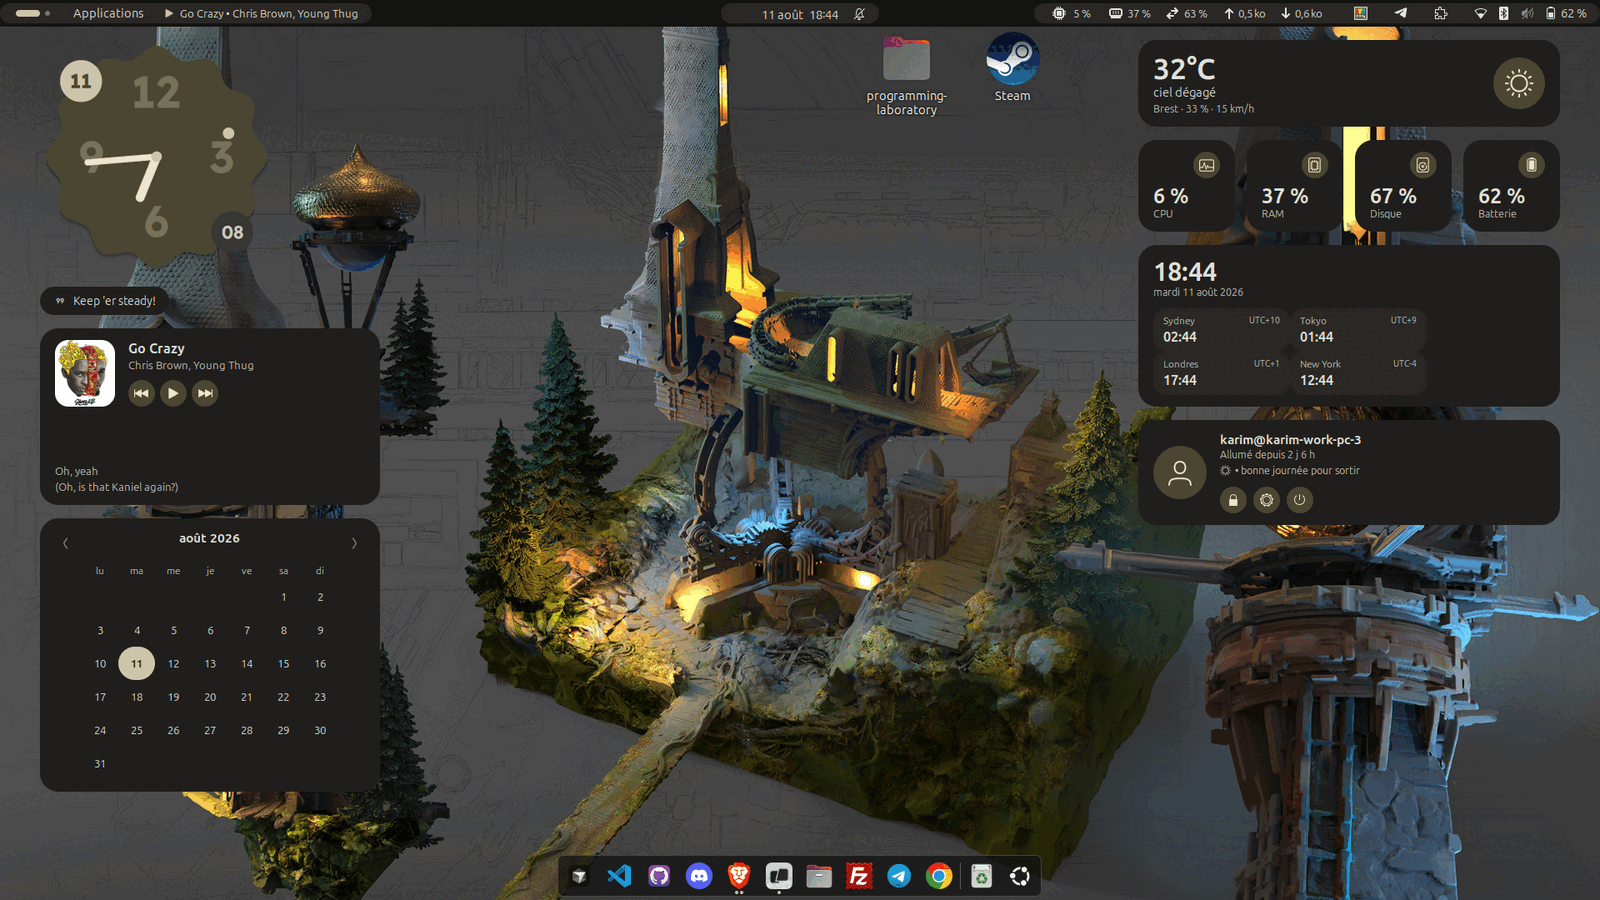
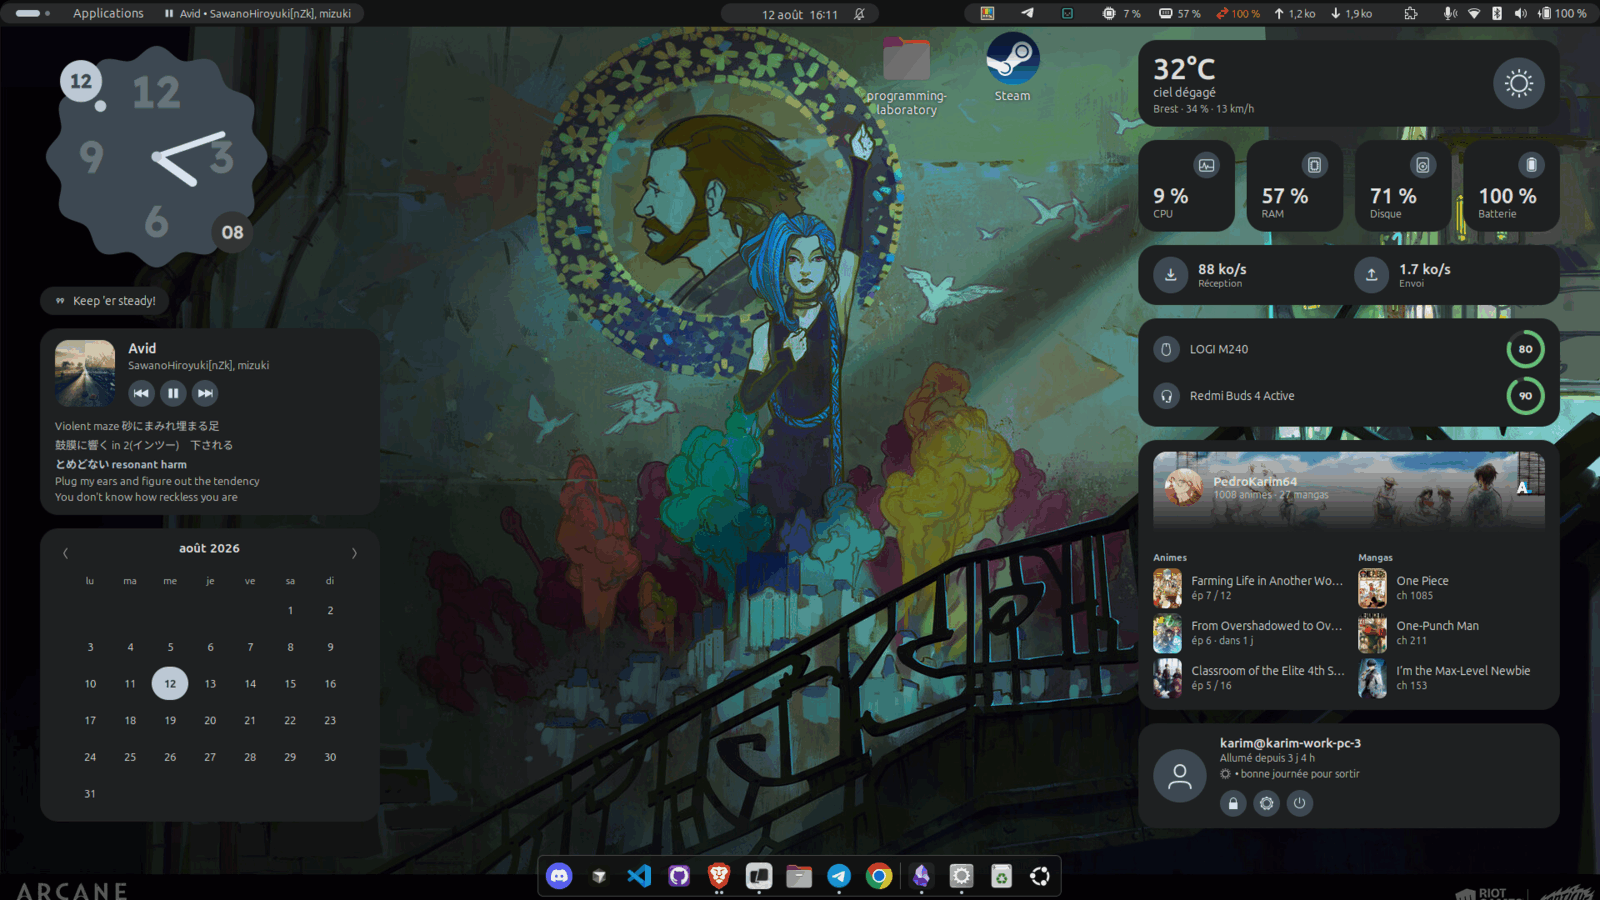
Refait la capture du bureau
Montre les cartes ajoutées depuis la précédente : débit réseau, appareils
connectés et AniList. Le bloc-notes et le pomodoro n'y sont pas — la colonne
de gauche est déjà pleine, et une carte tronquée en bas d'écran ne montre
rien d'utile.

diff --git a/README.md b/README.md
@@ -14,8 +14,8 @@ Testé sur **Ubuntu 24.04, GNOME Shell 46, session X11**.
 ## Captures
 
 Le bureau : horloge festonnée, citation, carte média avec paroles synchronisées,
-calendrier, météo, ressources, horloges mondiales, carte utilisateur. Toutes les
-couleurs viennent du fond d'écran.
+calendrier, météo, ressources, débit réseau, appareils connectés, AniList, carte
+utilisateur. Toutes les couleurs viennent du fond d'écran.
 
 ![Bureau](screenshots/desktop.png)
 
